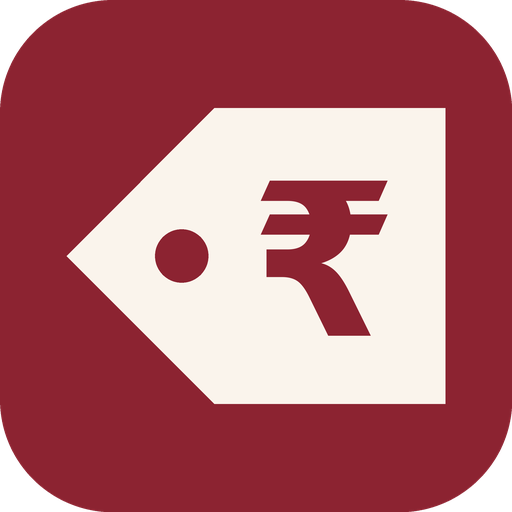
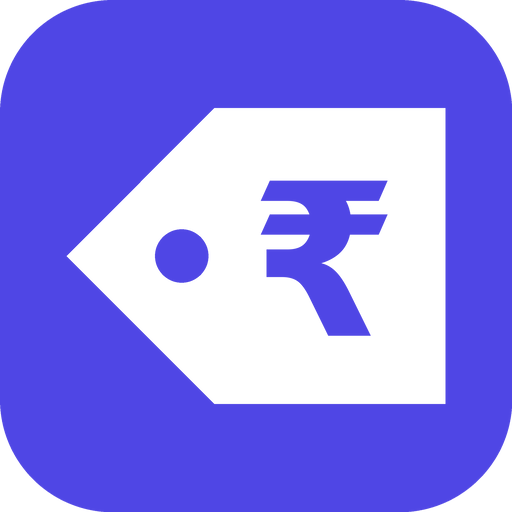
Design pass A: Iris accent, Tools grouped (daily first), muted contrast, 44px touch areas
- One set of colour tokens; accent Iris #4F46E5 (dark #A5A6FF) replaces maroon;
  manifest/theme-color match the background; admin and vendor pages and app
  icons follow; sw rb-shell-6
- --muted #5F636B: >= 5.1:1 on every light background in every theme
- Tools: Every day tiles (Past bills, Credit, Customers, Vendors, Reports),
  then Prices & items, then App
- Invisible hit-slop gives + Bill, card stepper and bill-line -/+/x 44px areas
- tests/designa.test.js; designinstructions.md overrides recorded

Claude-Session: https://claude.ai/code/session_019skoap51iyQ8CtsqPUdKsp

diff --git a/index.html b/index.html
@@ -8,7 +8,7 @@
 if(/iP(hone|ad|od)/.test(navigator.userAgent)||(navigator.platform==="MacIntel"&&navigator.maxTouchPoints>1)){ const m=document.querySelector('meta[name=viewport]'); if(m) m.content+=",maximum-scale=1"; }</script>
 <title>Rate Book</title>
 <meta name="description" content="Shop price list and quick bills">
-<meta name="theme-color" content="#8C2331">
+<meta name="theme-color" content="#F1F2F4">
 <meta name="mobile-web-app-capable" content="yes">
 <meta name="apple-mobile-web-app-capable" content="yes">
 <meta name="apple-mobile-web-app-status-bar-style" content="default">
@@ -23,22 +23,30 @@ if(/iP(hone|ad|od)/.test(navigator.userAgent)||(navigator.platform==="MacIntel"&
 <link rel="stylesheet" href="https://fonts.googleapis.com/css2?family=Plus+Jakarta+Sans:wght@400;500;600;700;800&family=Mukta:wght@400;500;600;700&display=swap" media="print" onload="this.media='all'">
 <style>
 /* Layout: one-column counter app — sticky header + search, scrolling item list, fixed bottom tabs, bottom sheets for detail/edit. */
+/* Colour tokens (one set; see designinstructions.md §4). Accent = Iris (11 Oct 2026; was maroon). */
 :root{
-  --bg:#F5F4F2; --surface:#FFFFFF; --surface-2:#EDEBE8; --fg:#1E1B1A; --muted:#6C6560; --line:#E0DCD7;
-  --accent:#8C2331; --accent-fg:#FFFFFF; --accent-soft:#F5E6E8; --gold:#B87A0B;
-  --good:#2D7A4D; --danger:#B3261E; --shadow:0 1px 2px rgba(30,20,20,.06),0 6px 20px rgba(30,20,20,.08);
-  --f-display:"Baloo 2","Mukta",system-ui,sans-serif;
-  --f-body:"Mukta","Noto Sans Devanagari",system-ui,-apple-system,"Segoe UI",sans-serif;
-  --r:14px;
+  --bg:#F1F2F4; --surface:#FFFFFF; --surface-2:#EEF0F3; --fg:#16171A; --muted:#5F636B; --line:#E3E5E9;
+  --ink:#16171A; --ink-fg:#FFFFFF; --ink-2:#2A2C31;
+  --accent:#4F46E5; --accent-fg:#FFFFFF; --accent-soft:#EEEEFF;
+  --gold:#B87A0B; --good:#2D7A4D; --danger:#B3261E;
+  --shadow:0 1px 2px rgba(16,24,40,.04),0 8px 24px rgba(16,24,40,.07);
+  --shadow-lg:0 12px 40px rgba(16,24,40,.14);
+  --f-display:"Plus Jakarta Sans","Mukta",system-ui,sans-serif;
+  --f-body:"Plus Jakarta Sans","Mukta","Noto Sans Devanagari",system-ui,-apple-system,"Segoe UI",sans-serif;
+  --r:20px;
 }
 @media (prefers-color-scheme: dark){:root:not([data-theme="light"]){
-  --bg:#141312; --surface:#1D1B1A; --surface-2:#2A2725; --fg:#F2EEEA; --muted:#A49C95; --line:#36312E;
-  --accent:#E8848F; --accent-fg:#22090D; --accent-soft:#3B1F24; --gold:#E3B04B;
-  --good:#6FC892; --danger:#F2867E; --shadow:0 1px 2px rgba(0,0,0,.4),0 6px 20px rgba(0,0,0,.35); color-scheme:dark}}
+  --bg:#0E0F11; --surface:#18191C; --surface-2:#222428; --fg:#F3F4F6; --muted:#9CA0A8; --line:#2A2C31;
+  --ink:#F3F4F6; --ink-fg:#111214; --ink-2:#D9DBE0;
+  --accent:#A5A6FF; --accent-fg:#0E0E2E; --accent-soft:#25264D;
+  --gold:#E3B04B; --good:#6FC892; --danger:#F2867E;
+  --shadow:0 1px 2px rgba(0,0,0,.5),0 8px 24px rgba(0,0,0,.4); --shadow-lg:0 12px 40px rgba(0,0,0,.6); color-scheme:dark}}
 :root[data-theme="dark"]{
-  --bg:#141312; --surface:#1D1B1A; --surface-2:#2A2725; --fg:#F2EEEA; --muted:#A49C95; --line:#36312E;
-  --accent:#E8848F; --accent-fg:#22090D; --accent-soft:#3B1F24; --gold:#E3B04B;
-  --good:#6FC892; --danger:#F2867E; --shadow:0 1px 2px rgba(0,0,0,.4),0 6px 20px rgba(0,0,0,.35); color-scheme:dark}
+  --bg:#0E0F11; --surface:#18191C; --surface-2:#222428; --fg:#F3F4F6; --muted:#9CA0A8; --line:#2A2C31;
+  --ink:#F3F4F6; --ink-fg:#111214; --ink-2:#D9DBE0;
+  --accent:#A5A6FF; --accent-fg:#0E0E2E; --accent-soft:#25264D;
+  --gold:#E3B04B; --good:#6FC892; --danger:#F2867E;
+  --shadow:0 1px 2px rgba(0,0,0,.5),0 8px 24px rgba(0,0,0,.4); --shadow-lg:0 12px 40px rgba(0,0,0,.6); color-scheme:dark}
 
 *{box-sizing:border-box}
 [hidden]{display:none!important}
@@ -588,24 +596,6 @@ details.alt summary{cursor:pointer;color:var(--accent);font-weight:600;padding:4
 .btn.listening{background:var(--accent);color:var(--accent-fg);animation:pulse 1.2s infinite}
 
 /* ===================== Design refresh: soft cards, ink pills, floating tab bar ===================== */
-:root{
-  --bg:#F1F2F4; --surface:#FFFFFF; --surface-2:#EEF0F3; --fg:#16171A; --muted:#6E727A; --line:#E3E5E9;
-  --ink:#16171A; --ink-fg:#FFFFFF; --ink-2:#2A2C31;
-  --accent:#9B2335; --accent-fg:#FFFFFF; --accent-soft:#F7E8EA;
-  --shadow:0 1px 2px rgba(16,24,40,.04),0 8px 24px rgba(16,24,40,.07);
-  --shadow-lg:0 12px 40px rgba(16,24,40,.14);
-  --f-display:"Plus Jakarta Sans","Mukta",system-ui,sans-serif;
-  --f-body:"Plus Jakarta Sans","Mukta","Noto Sans Devanagari",system-ui,-apple-system,"Segoe UI",sans-serif;
-  --r:20px;
-}
-@media (prefers-color-scheme: dark){:root:not([data-theme="light"]){
-  --bg:#0E0F11; --surface:#18191C; --surface-2:#222428; --fg:#F3F4F6; --muted:#9CA0A8; --line:#2A2C31;
-  --ink:#F3F4F6; --ink-fg:#111214; --ink-2:#D9DBE0; --accent:#F08A97; --accent-fg:#2A0A10; --accent-soft:#3A1E24;
-  --shadow:0 1px 2px rgba(0,0,0,.5),0 8px 24px rgba(0,0,0,.4); --shadow-lg:0 12px 40px rgba(0,0,0,.6)}}
-:root[data-theme="dark"]{
-  --bg:#0E0F11; --surface:#18191C; --surface-2:#222428; --fg:#F3F4F6; --muted:#9CA0A8; --line:#2A2C31;
-  --ink:#F3F4F6; --ink-fg:#111214; --ink-2:#D9DBE0; --accent:#F08A97; --accent-fg:#2A0A10; --accent-soft:#3A1E24;
-  --shadow:0 1px 2px rgba(0,0,0,.5),0 8px 24px rgba(0,0,0,.4); --shadow-lg:0 12px 40px rgba(0,0,0,.6)}
 body{background:var(--bg);color:var(--fg);letter-spacing:-.005em}
 /* header: greeting + shop name */
 .brand{font:800 21px/1.2 var(--f-display);letter-spacing:-.02em}
@@ -1703,6 +1693,26 @@ details.cg[data-cg="me"] .cg-b>.cfg-sec>div:first-child>h3{display:none}
 #nslide .n-mid b{font-size:14px}
 #nslide .n-x{flex:none;border:0;background:none;color:var(--muted);font-size:18px;padding:4px}
 @media (prefers-reduced-motion:reduce){#nslide{transition:opacity .2s}.nbell.ring svg{animation:none}}
+/* Tools in groups (11 Oct 2026): daily screens first as tiles, then item tools, then app settings */
+.tl-h{font:700 12.5px var(--f-body);letter-spacing:.05em;text-transform:uppercase;color:var(--muted);margin:20px 4px 8px}
+#view-tools .section-title + .tl-h{margin-top:4px}
+@media (max-width:1023px){
+  .tl-daily{grid-template-columns:repeat(2,minmax(0,1fr))}
+  .tl-daily button{flex-direction:column;align-items:flex-start;gap:10px;padding:14px;min-height:124px}
+  .tl-daily button span{font-size:13px;line-height:1.35}
+  .tl-daily > button:last-child:nth-child(odd){grid-column:1/-1;flex-direction:row;align-items:center;min-height:0}
+}
+/* Bigger touch areas, same look (designinstructions §2: aim for 44 px). Invisible hit-slop via ::after. */
+.addbtn,.bill-line .x,.card .mstep button,.bill-line .step button{position:relative}
+.addbtn::after,.bill-line .x::after,.card .mstep button::after,.bill-line .step button::after{content:"";position:absolute}
+.addbtn::after{inset:-8px -6px}
+.bill-line .x::after{inset:-5px}
+.card .mstep{overflow:visible}
+.card .mstep button::after{inset:-8px 0}
+.bill-line .step{overflow:visible}
+.bill-line .step button::after{inset:-4px 0}
+.bill-line .step button:first-child{border-radius:999px 0 0 999px}
+.bill-line .step button:last-child{border-radius:0 999px 999px 0}
 </style>
 </head>
 <body>
@@ -1826,21 +1836,28 @@ details.cg[data-cg="me"] .cg-b>.cfg-sec>div:first-child>h3{display:none}
 
   <section id="view-tools" hidden>
     <h2 class="section-title" data-t="tools">Tools</h2>
+    <h3 class="tl-h" data-t="tlDaily">Every day</h3>
+    <div class="menu-list tl-daily">
+      <button id="t-bills"><svg viewBox="0 0 24 24" fill="none" stroke="currentColor" stroke-width="2" stroke-linecap="round"><path d="M6 2h12v20l-3-2-3 2-3-2-3 2V2z"/><path d="M9 7h6M9 11h6"/><circle cx="17" cy="17" r="4" fill="var(--surface)"/><path d="m20 20 2 2"/></svg><div><b data-t="pastBills">Past bills</b><span data-t="pastBillsD">Find a bill and send it again</span></div></button>
+      <button id="t-dues"><svg viewBox="0 0 24 24" fill="none" stroke="currentColor" stroke-width="2" stroke-linecap="round" stroke-linejoin="round"><path d="M4 4h12a2 2 0 0 1 2 2v14l-3-2-3 2-3-2-3 2-2-1.3V4z"/><path d="M8 9h6M8 13h4"/><circle cx="18" cy="7" r="4" fill="var(--surface)"/><path d="M18 5.2v3.6M16.6 6h2.3a.7.7 0 0 1 0 1.4h-1.8a.7.7 0 0 0 0 1.4h2.3"/></svg><div><b data-t="duesT">Credit (Udhaar)</b><span id="t-dues-sub" data-t="duesD">Who owes money, and record payments</span></div></button>
+      <button id="t-custs"><svg viewBox="0 0 24 24" fill="none" stroke="currentColor" stroke-width="2" stroke-linecap="round" stroke-linejoin="round"><circle cx="9" cy="8" r="3.5"/><path d="M2.5 20a6.5 6.5 0 0 1 13 0"/><path d="M16 4.5a3.5 3.5 0 0 1 0 7M18 20a6 6 0 0 0-2.5-4.9"/></svg><div><b data-t="cuT">Customers</b><span data-t="cuToolD">Everyone who bought, their details and bills</span></div></button>
+      <button id="t-vendors" data-w><svg viewBox="0 0 24 24" fill="none" stroke="currentColor" stroke-width="2" stroke-linecap="round" stroke-linejoin="round"><path d="M3 9l1.5-5h15L21 9"/><path d="M4 9v11h16V9"/><path d="M3 9h18M9 20v-6h6v6"/></svg><div><b data-t="vTitle">Vendors</b><span data-t="vToolD">Bills from suppliers, payments, what you owe</span></div></button>
+      <button id="t-reports" hidden><svg viewBox="0 0 24 24" fill="none" stroke="currentColor" stroke-width="2" stroke-linecap="round" stroke-linejoin="round"><path d="M4 20V10M10 20V4M16 20v-7M22 20H2"/></svg><div><b data-t="repT">Reports</b><span data-t="repD">Sales, top items, GST summary and files for your CA</span></div></button>
+    </div>
+    <h3 class="tl-h" data-t="tlItems">Prices &amp; items</h3>
     <div class="menu-list">
       <button id="t-cmd" data-w><svg viewBox="0 0 24 24" fill="none" stroke="currentColor" stroke-width="2" stroke-linecap="round" stroke-linejoin="round"><path d="m4 20 10-10M15 4v3M13.5 5.5h3M19 9v2M18 10h2M8 4v2M7 5h2"/></svg><div><b data-t="cmdTitle">Change by typing or speaking</b><span data-t="cmdD">"add 51 micron bag 1kg rates 110 and 120"</span></div></button>
       <button id="t-add" data-w><svg viewBox="0 0 24 24" fill="none" stroke="currentColor" stroke-width="2" stroke-linecap="round"><path d="M12 5v14M5 12h14"/></svg><div><b data-t="addItem">Add item</b><span data-t="addItemD">One item with photo</span></div></button>
       <button id="t-bulkadd" data-w><svg viewBox="0 0 24 24" fill="none" stroke="currentColor" stroke-width="2" stroke-linecap="round"><rect x="3" y="4" width="18" height="16" rx="2"/><path d="M3 10h18M9 4v16"/></svg><div><b data-t="bulkAdd">Bulk add</b><span data-t="bulkAddD">Type rows or paste a list from Excel / WhatsApp</span></div></button>
       <button id="t-bulkedit" data-w><svg viewBox="0 0 24 24" fill="none" stroke="currentColor" stroke-width="2" stroke-linecap="round"><path d="M4 20h4L19 9l-4-4L4 16v4z"/><path d="m13 7 4 4"/></svg><div><b data-t="bulkEdit">Bulk edit prices</b><span data-t="bulkEditD">Change many rates at once, or raise by %</span></div></button>
-      <button id="t-unlock"><svg viewBox="0 0 24 24" fill="none" stroke="currentColor" stroke-width="2" stroke-linecap="round"><rect x="4" y="11" width="16" height="10" rx="2"/><path d="M8 11V7a4 4 0 0 1 8 0v4"/></svg><div><b id="t-unlock-t"></b><span id="t-unlock-d"></span></div></button>
-      <button id="t-install" hidden><svg viewBox="0 0 24 24" fill="none" stroke="currentColor" stroke-width="2" stroke-linecap="round"><path d="M12 3v12M7 10l5 5 5-5M5 21h14"/></svg><div><b data-t="installT">Install Rate Book</b><span data-t="installD">Adds an icon to your home screen. Works offline.</span></div></button>
       <button id="t-groups" data-w><svg viewBox="0 0 24 24" fill="none" stroke="currentColor" stroke-width="2" stroke-linecap="round" stroke-linejoin="round"><path d="M3 7l9-4 9 4-9 4-9-4z"/><path d="M3 12l9 4 9-4M3 17l9 4 9-4"/></svg><div><b data-t="grpT">Groups &amp; other names</b><span data-t="grpToolD">Sort items into groups, add names customers use</span></div></button>
       <button id="t-hindi" data-w><svg viewBox="0 0 24 24" fill="none" stroke="currentColor" stroke-width="2" stroke-linecap="round" stroke-linejoin="round"><path d="M4 5h8M8 3v2M5 9c1.5 3 4 5 7 6M11 5c-1 4-3.5 7.5-7 10"/><path d="m13 21 4-9 4 9M14.5 18h5"/></svg><div><b data-t="toHindiT">Convert names to Hindi</b><span data-t="toHindiD">Write every item name in Hindi letters</span></div></button>
-      <button id="t-bills"><svg viewBox="0 0 24 24" fill="none" stroke="currentColor" stroke-width="2" stroke-linecap="round"><path d="M6 2h12v20l-3-2-3 2-3-2-3 2V2z"/><path d="M9 7h6M9 11h6"/><circle cx="17" cy="17" r="4" fill="var(--surface)"/><path d="m20 20 2 2"/></svg><div><b data-t="pastBills">Past bills</b><span data-t="pastBillsD">Find a bill and send it again</span></div></button>
-      <button id="t-reports" hidden><svg viewBox="0 0 24 24" fill="none" stroke="currentColor" stroke-width="2" stroke-linecap="round" stroke-linejoin="round"><path d="M4 20V10M10 20V4M16 20v-7M22 20H2"/></svg><div><b data-t="repT">Reports</b><span data-t="repD">Sales, top items, GST summary and files for your CA</span></div></button>
-      <button id="t-vendors" data-w><svg viewBox="0 0 24 24" fill="none" stroke="currentColor" stroke-width="2" stroke-linecap="round" stroke-linejoin="round"><path d="M3 9l1.5-5h15L21 9"/><path d="M4 9v11h16V9"/><path d="M3 9h18M9 20v-6h6v6"/></svg><div><b data-t="vTitle">Vendors</b><span data-t="vToolD">Bills from suppliers, payments, what you owe</span></div></button>
-      <button id="t-custs"><svg viewBox="0 0 24 24" fill="none" stroke="currentColor" stroke-width="2" stroke-linecap="round" stroke-linejoin="round"><circle cx="9" cy="8" r="3.5"/><path d="M2.5 20a6.5 6.5 0 0 1 13 0"/><path d="M16 4.5a3.5 3.5 0 0 1 0 7M18 20a6 6 0 0 0-2.5-4.9"/></svg><div><b data-t="cuT">Customers</b><span data-t="cuToolD">Everyone who bought, their details and bills</span></div></button>
-      <button id="t-dues"><svg viewBox="0 0 24 24" fill="none" stroke="currentColor" stroke-width="2" stroke-linecap="round" stroke-linejoin="round"><path d="M4 4h12a2 2 0 0 1 2 2v14l-3-2-3 2-3-2-3 2-2-1.3V4z"/><path d="M8 9h6M8 13h4"/><circle cx="18" cy="7" r="4" fill="var(--surface)"/><path d="M18 5.2v3.6M16.6 6h2.3a.7.7 0 0 1 0 1.4h-1.8a.7.7 0 0 0 0 1.4h2.3"/></svg><div><b data-t="duesT">Credit (Udhaar)</b><span id="t-dues-sub" data-t="duesD">Who owes money, and record payments</span></div></button>
+    </div>
+    <h3 class="tl-h" data-t="tlApp">App</h3>
+    <div class="menu-list">
       <button id="t-settings"><svg viewBox="0 0 24 24" fill="none" stroke="currentColor" stroke-width="2" stroke-linecap="round"><path d="M4 6h10M18 6h2M4 12h4M12 12h8M4 18h12M20 18h0"/><circle cx="16" cy="6" r="2"/><circle cx="10" cy="12" r="2"/><circle cx="18" cy="18" r="2"/></svg><div><b data-t="settings">Settings</b><span data-t="settingsD">Shop name, units, rounding, bill footer</span></div></button>
+      <button id="t-unlock"><svg viewBox="0 0 24 24" fill="none" stroke="currentColor" stroke-width="2" stroke-linecap="round"><rect x="4" y="11" width="16" height="10" rx="2"/><path d="M8 11V7a4 4 0 0 1 8 0v4"/></svg><div><b id="t-unlock-t"></b><span id="t-unlock-d"></span></div></button>
+      <button id="t-install" hidden><svg viewBox="0 0 24 24" fill="none" stroke="currentColor" stroke-width="2" stroke-linecap="round"><path d="M12 3v12M7 10l5 5 5-5M5 21h14"/></svg><div><b data-t="installT">Install Rate Book</b><span data-t="installD">Adds an icon to your home screen. Works offline.</span></div></button>
     </div>
   </section>
 </main>
@@ -2186,6 +2203,7 @@ Object.assign(STR.en,{nT:"Notifications",nBell:"Notifications",nEmpty:"No update
 Object.assign(STR.hi,{nT:"सूचनाएँ",nBell:"सूचनाएँ",nEmpty:"अभी कोई सूचना नहीं। नए सप्लायर, सप्लायर के बिल और भुगतान यहाँ दिखेंगे।",nHidden:n=>`${n} आपकी सेटिंग से छिपी`,nToday:"आज",nYest:"कल",nBy:n=>`${n} ने किया`,nNewVendor:v=>`नया सप्लायर: ${v}`,nOpenBal:a=>`पुराना बकाया ${a}`,nCredit:d=>`${d} दिन उधार`,nBill:(a,v)=>`${v} का बिल ${a}`,nBillNo:n=>`बिल ${n}`,nDue:d=>`देय ${d}`,nPay:(a,v)=>`${v} को ${a} दिए`,nAdj:(a,v)=>`${v} को ${a} का माल वापस`,nFor:s=>`बिल ${s} के लिए`,nPaid:n=>n?`बिल ${n} पूरा चुका`:"बिल पूरा चुका",nOpening:"पुराना बकाया",nRmBill:(a,v)=>`बिल ${a} हटाया · ${v}`,nRmPay:(a,v)=>`भुगतान ${a} हटाया · ${v}`,nRmAdj:(a,v)=>`वापसी ${a} हटाई · ${v}`,nCheck:(n,v)=>`${v} का बिल${n?" "+n:""} जाँचें`,nIssues:n=>`हिसाब में ${n} गड़बड़ी`,nMove:n=>`${n} सप्लायर असली मोड में ले जाए गए`,nMore:n=>`${n} नई सूचनाएँ`,nView:"देखें",nSetT:"सप्लायर की सूचनाएँ",nSetD:"आपकी घंटी पर दिखेंगी। किसी को बंद करने के लिए दबाएँ।",nk_vendor:"नया सप्लायर",nk_bill:"बिल",nk_pay:"भुगतान",nk_paid:"बिल पूरा चुका",nk_rm:"हटाया",nk_check:"बिल जाँच में गड़बड़ी",nk_move:"टेस्ट से लाए"});
 Object.assign(STR.en,{cgYou:"You and this phone",cgShopL:"Shop · for everyone",cgOwnerL:"Owner",cgLook:"Display & search",cgPr:"Printer",cgShop:"Shop details",cgBills:"Bill numbers",cgItems:"Items & units",cgPpl:"People & security",cgPplD:"PINs, signed-in phones, shop code",cgBkD:"Copies in Google Drive, restore",cgSpeedD:"How fast the sheet answers",cgTest:"Test mode",cgReal:"Real billing",cgSBot:"search at bottom",cgSTop:"search at top",cgAuto:"prints after Done",cgNoGst:"no GSTIN",cgNext:n=>`Next bill ${n}`,cgNextG:n=>`GST ${n}`,cgUnits:n=>n===1?"1 unit":`${n} units`});
 Object.assign(STR.hi,{cgYou:"आप और यह फ़ोन",cgShopL:"दुकान · सबके लिए",cgOwnerL:"मालिक",cgLook:"दिखावट और सर्च",cgPr:"प्रिंटर",cgShop:"दुकान की जानकारी",cgBills:"बिल नंबर",cgItems:"आइटम और यूनिट",cgPpl:"लोग और सुरक्षा",cgPplD:"PIN, साइन-इन फ़ोन, दुकान का कोड",cgBkD:"Google Drive में कॉपी, वापस लाना",cgSpeedD:"शीट कितनी जल्दी जवाब देती है",cgTest:"टेस्ट मोड",cgReal:"असली बिलिंग",cgSBot:"सर्च नीचे",cgSTop:"सर्च ऊपर",cgAuto:"Done के बाद प्रिंट",cgNoGst:"GSTIN नहीं",cgNext:n=>`अगला बिल ${n}`,cgNextG:n=>`GST ${n}`,cgUnits:n=>`${n} यूनिट`});
+Object.assign(STR.en,{tlDaily:"Every day",tlItems:"Prices & items",tlApp:"App"}); Object.assign(STR.hi,{tlDaily:"रोज़ के काम",tlItems:"दाम और सामान",tlApp:"ऐप"});
 Object.assign(STR.en,{heldNoItems:"No items yet",totFind:"Find an item to add"});
 Object.assign(STR.hi,{heldNoItems:"अभी कोई सामान नहीं",totFind:"जोड़ने के लिए सामान खोजें"});
 Object.assign(STR.hi,{helloName:n=>`नमस्ते, ${n}`,hello:"नमस्ते",fAll:"सब",fInBill:"बिल में",fRecent:"इस हफ़्ते बदले",fPhoto:"फ़ोटो वाले"});
@@ -2270,7 +2288,7 @@ setFz(fzNow());
 document.addEventListener("DOMContentLoaded",()=>{ if(!document.body.dataset.tab) document.body.dataset.tab="items"; });
 if(document.body) document.body.dataset.tab="items";
 /* Theme and appearance, chosen per phone. [key, light primary, light second, dark primary, status-bar colour] */
-const PALETTES=[["ink","#16171A","#9B2335","#F3F4F6","#F1F2F4"],["maroon","#8C2331","#F6E6E8","#EC8E99","#8C2331"],["forest","#1F6B4A","#E3F1EA","#5CC594","#1F6B4A"],["indigo","#3443A8","#E7EAF9","#9AABFF","#3443A8"],["saffron","#A14B07","#FBEEDC","#F5A524","#A14B07"]];
+const PALETTES=[["ink","#16171A","#4F46E5","#F3F4F6","#F1F2F4"],["maroon","#8C2331","#F6E6E8","#EC8E99","#8C2331"],["forest","#1F6B4A","#E3F1EA","#5CC594","#1F6B4A"],["indigo","#3443A8","#E7EAF9","#9AABFF","#3443A8"],["saffron","#A14B07","#FBEEDC","#F5A524","#A14B07"]];
 function palNow(){ const v=ls.get("rb_palette","ink"); return PALETTES.some(p=>p[0]===v)?v:"ink"; }
 function appearNow(){ const v=ls.get("rb_appear","auto"); return ["auto","light","dark"].includes(v)?v:"auto"; }
 function applyTheme(){

diff --git a/tests/designa.test.js b/tests/designa.test.js
@@ -1,0 +1,44 @@
+/* Design quick wins (11 Oct 2026): Tools grouped with daily screens first, grey text ≥ 4.5:1 in every theme,
+   44 px touch areas on small controls, launch colours match the app, Iris accent. Run: node tests/designa.test.js */
+const fs = require('fs'), path = require('path');
+const { appHtml, launch, ok, done } = require('./browser');
+const html = appHtml('S,appUnlock,addToBill,setTab');
+const items = ['PP Bag 12x18', 'Paper Cup 150ml', 'Sugar loose'].map((n, i) => ({ id: 'i' + i, name: n, unit: i === 2 ? 'kg' : 'pc', buy: 10, sell: 14 + i }));
+const lum = h => { const c = h.match(/\d+/g).slice(0, 3).map(v => { v /= 255; return v <= .03928 ? v / 12.92 : ((v + .055) / 1.055) ** 2.4; }); return .2126 * c[0] + .7152 * c[1] + .0722 * c[2]; };
+const ratio = (a, b) => { const x = lum(a), y = lum(b); return (Math.max(x, y) + .05) / (Math.min(x, y) + .05); };
+(async () => {
+  const man = JSON.parse(fs.readFileSync(path.join(__dirname, '..', 'manifest.webmanifest'), 'utf8'));
+  const b = await launch();
+  const ctx = await b.newContext({ viewport: { width: 390, height: 844 }, isMobile: true, hasTouch: true }); const p = await ctx.newPage(); p.on('pageerror', e => console.log('PAGEERR', e.message));
+  await ctx.route('https://rb.test/**', r => r.fulfill({ body: html, contentType: 'text/html' }));
+  await ctx.route('https://script.google.com/**', r => r.fulfill({ contentType: 'application/json', body: JSON.stringify({ ok: true, shop: 'main', rev: '1', items, config: { shopName: 'G', mode: 'live', nextBill: 5 }, sv: 43, me: { name: 'Mayank', role: 'owner', personal: true, prefs: {} } }) }));
+  await p.addInitScript(() => localStorage.setItem('rb_auth', JSON.stringify({ tok: 't1', by: 'Mayank', role: 'owner', personal: true, pinH: 'x', pinS: 'AAAA' })));
+  await p.goto('https://rb.test/'); await p.waitForTimeout(1200); await p.evaluate(() => T.appUnlock()); await p.waitForTimeout(300);
+  const tok = () => p.evaluate(() => { const c = getComputedStyle(document.documentElement); return { bg: c.getPropertyValue('--bg').trim(), s2: c.getPropertyValue('--surface-2').trim(), muted: c.getPropertyValue('--muted').trim(), accent: c.getPropertyValue('--accent').trim() }; });
+  const hex = h => { h = h.replace('#', ''); return 'rgb(' + [0, 2, 4].map(i => parseInt(h.slice(i, i + 2), 16)).join(',') + ')'; };
+  const t0 = await tok();
+  ok(t0.accent.toUpperCase() === '#4F46E5', 'accent is Iris #4F46E5 (was maroon)');
+  ok(man.background_color.toUpperCase() === t0.bg.toUpperCase() && man.theme_color.toUpperCase() === t0.bg.toUpperCase(), 'manifest launch colours match the app background (no colour flash at start)');
+  for (const pal of ['ink', 'maroon', 'forest', 'indigo', 'saffron']) {
+    await p.evaluate(x => { if (x === 'ink') document.documentElement.removeAttribute('data-palette'); else document.documentElement.setAttribute('data-palette', x); }, pal);
+    const t = await tok(), r = Math.min(ratio(hex(t.muted), hex(t.bg)), ratio(hex(t.muted), hex(t.s2)), ratio(hex(t.muted), 'rgb(255,255,255)'));
+    ok(r >= 4.5, `${pal}: grey text ${r.toFixed(2)}:1 on every light background (≥ 4.5)`);
+  }
+  await p.evaluate(() => document.documentElement.removeAttribute('data-palette'));
+  await p.evaluate(() => T.setTab('tools')); await p.waitForTimeout(300);
+  const order = await p.$$eval('#view-tools .menu-list', ls => ls.map(l => [...l.querySelectorAll('button')].map(b => b.id)));
+  ok(order[0].slice(0, 4).join() === 't-bills,t-dues,t-custs,t-vendors' && order[0].includes('t-reports'), 'Tools: Past bills, Credit, Customers, Vendors, Reports come first');
+  ok(order[1].includes('t-add') && order[2][0] === 't-settings', 'Tools: item tools next, Settings / Lock under App');
+  const cols = await p.$$eval('.tl-daily > button:not([hidden])', bs => new Set(bs.map(b => Math.round(b.getBoundingClientRect().left))).size);
+  ok(cols === 2, 'Tools: daily screens are 2-column tiles on a phone');
+  const hit = async (sel, label) => { const r = await p.evaluate(s => { const e = document.querySelector(s); const b = e.getBoundingClientRect(), cx = b.left + b.width / 2, cy = b.top + b.height / 2;
+      const at = (x, y) => { const h = document.elementFromPoint(x, y); return !!h && (h === e || e.contains(h)); };
+      let up = 0; while (up < 30 && at(cx, cy - b.height / 2 - up - 1)) up++; let dn = 0; while (dn < 30 && at(cx, cy + b.height / 2 + dn + 1)) dn++;
+      return Math.round(b.height + up + dn); }, sel); ok(r >= 42, `${label}: touch area ${r} px tall (≥ 42)`); };
+  await p.evaluate(() => T.setTab('items')); await p.waitForTimeout(300);
+  await hit('#list [data-add]', '"+ Bill" on Prices');
+  await p.evaluate(() => { T.addToBill('i0', 2); T.addToBill('i1', 1); T.setTab('bill'); }); await p.waitForTimeout(400);
+  await hit('.bill-line [data-rm]', 'bill line ×');
+  await hit('.bill-line [data-inc]', 'bill line +');
+  await ctx.close(); await b.close(); done();
+})();

diff --git a/admin.html b/admin.html
@@ -11,11 +11,11 @@
 <link rel="stylesheet" href="https://fonts.googleapis.com/css2?family=Plus+Jakarta+Sans:wght@400;500;600;700;800&family=JetBrains+Mono:wght@500&display=swap" media="print" onload="this.media='all'">
 <style>
 /* Square corners by choice (Mayank prefers pointed). Colours: ink for primary, maroon accent from the app, green/amber/red for status. */
-:root{--bg:#F4F5F7;--surface:#fff;--surface-2:#F0F1F4;--surface-3:#E7E9EE;--fg:#111317;--muted:#6B7180;--line:#E2E4E9;--line-2:#D3D6DD;--ink:#111317;--ink-fg:#fff;--accent:#8C2331;
+:root{--bg:#F4F5F7;--surface:#fff;--surface-2:#F0F1F4;--surface-3:#E7E9EE;--fg:#111317;--muted:#6B7180;--line:#E2E4E9;--line-2:#D3D6DD;--ink:#111317;--ink-fg:#fff;--accent:#4F46E5;
   --good:#16794A;--good-bg:#E5F4EC;--warn:#9A5B05;--warn-bg:#FBF0DC;--bad:#B3261E;--bad-bg:#FBE7E5;--shadow:0 1px 2px rgba(17,19,23,.05),0 8px 24px -12px rgba(17,19,23,.12);color-scheme:light}
-@media (prefers-color-scheme:dark){:root:not([data-theme="light"]){--bg:#0D0E10;--surface:#16171A;--surface-2:#1D1F23;--surface-3:#272A2F;--fg:#F2F3F5;--muted:#9A9FAA;--line:#2A2D33;--line-2:#363940;--ink:#F2F3F5;--ink-fg:#111317;--accent:#E8848F;
+@media (prefers-color-scheme:dark){:root:not([data-theme="light"]){--bg:#0D0E10;--surface:#16171A;--surface-2:#1D1F23;--surface-3:#272A2F;--fg:#F2F3F5;--muted:#9A9FAA;--line:#2A2D33;--line-2:#363940;--ink:#F2F3F5;--ink-fg:#111317;--accent:#A5A6FF;
   --good:#5BC28A;--good-bg:#15291F;--warn:#E3A44A;--warn-bg:#2B2213;--bad:#F08A80;--bad-bg:#301A18;--shadow:0 1px 2px rgba(0,0,0,.4),0 8px 24px -12px rgba(0,0,0,.6);color-scheme:dark}}
-:root[data-theme="dark"]{--bg:#0D0E10;--surface:#16171A;--surface-2:#1D1F23;--surface-3:#272A2F;--fg:#F2F3F5;--muted:#9A9FAA;--line:#2A2D33;--line-2:#363940;--ink:#F2F3F5;--ink-fg:#111317;--accent:#E8848F;
+:root[data-theme="dark"]{--bg:#0D0E10;--surface:#16171A;--surface-2:#1D1F23;--surface-3:#272A2F;--fg:#F2F3F5;--muted:#9A9FAA;--line:#2A2D33;--line-2:#363940;--ink:#F2F3F5;--ink-fg:#111317;--accent:#A5A6FF;
   --good:#5BC28A;--good-bg:#15291F;--warn:#E3A44A;--warn-bg:#2B2213;--bad:#F08A80;--bad-bg:#301A18;--shadow:0 1px 2px rgba(0,0,0,.4),0 8px 24px -12px rgba(0,0,0,.6);color-scheme:dark}
 *{box-sizing:border-box}
 html{-webkit-text-size-adjust:100%}

diff --git a/vendor.html b/vendor.html
@@ -12,9 +12,9 @@
 <link rel="stylesheet" href="https://fonts.googleapis.com/css2?family=Plus+Jakarta+Sans:wght@400;600;700;800&family=Mukta:wght@400;600;700;800&display=swap">
 <style>
 /* Read-only account page for one vendor, opened from the private link the shop shares (vendor.html?t=…). */
-:root{--bg:#f4f5f7;--surface:#fff;--surface-2:#eef0f3;--fg:#141518;--muted:#62666e;--line:#e3e5e9;--ink:#16171a;--ink-fg:#fff;--accent:#8a1c2b;--ok:#17703f;--f:"Plus Jakarta Sans","Mukta",system-ui,sans-serif}
+:root{--bg:#f4f5f7;--surface:#fff;--surface-2:#eef0f3;--fg:#141518;--muted:#62666e;--line:#e3e5e9;--ink:#16171a;--ink-fg:#fff;--accent:#4F46E5;--ok:#17703f;--f:"Plus Jakarta Sans","Mukta",system-ui,sans-serif}
 :lang(hi){--f:"Mukta","Plus Jakarta Sans",system-ui,sans-serif}
-@media (prefers-color-scheme:dark){:root{--bg:#0f1012;--surface:#18191c;--surface-2:#222328;--fg:#eceef2;--muted:#9a9ea7;--line:#2b2d33;--ink:#eceef2;--ink-fg:#111;--accent:#ff8a96;--ok:#7fe0a8}}
+@media (prefers-color-scheme:dark){:root{--bg:#0f1012;--surface:#18191c;--surface-2:#222328;--fg:#eceef2;--muted:#9a9ea7;--line:#2b2d33;--ink:#eceef2;--ink-fg:#111;--accent:#A5A6FF;--ok:#7fe0a8}}
 *{box-sizing:border-box}
 body{margin:0;background:var(--bg);color:var(--fg);font:15px/1.45 var(--f);-webkit-text-size-adjust:100%}
 .wrap{max-width:720px;margin:0 auto;padding:16px 16px calc(32px + env(safe-area-inset-bottom))}

diff --git a/sw.js b/sw.js
@@ -1,5 +1,5 @@
 /* Rate Book service worker: keeps the app opening offline. Prices themselves are cached by the page. */
-const VERSION = 'rb-shell-5';
+const VERSION = 'rb-shell-6';
 const SHELL = ['./', './index.html', './manifest.webmanifest', './icon-192.png', './icon-512.png', './icon-maskable-512.png', './apple-touch-icon.png', './favicon.png'];
 
 self.addEventListener('install', e => {

diff --git a/designinstructions.md b/designinstructions.md
@@ -8,7 +8,7 @@ Researched October 2026 from Apple HIG (iOS 26 / Liquid Glass), Material 3 and M
 ## 0. How to use this file
 
 1. **Before any UI work, read §1 (principles) and the sections for what you're touching.** Run the §12 checklist before calling the work done.
-2. **Use the tokens in the code**: `--bg`, `--surface`, `--surface-2`, `--fg`, `--muted`, `--line`, `--ink`/`--ink-fg`, `--accent`/`--accent-soft`, `--good`, `--danger`, `--gold`, `--r`, `--shadow`, `--f-display`, `--f-body`. Never write a new hex value in a component. If a token is missing, add it to `:root`, to both dark blocks and to every palette (`PALETTES` + `:root[data-palette=…]`).
+2. **Use the tokens in the code** (all colour tokens live in one `:root` block at the top of the `<style>`, plus its two dark blocks): `--bg`, `--surface`, `--surface-2`, `--fg`, `--muted`, `--line`, `--ink`/`--ink-fg`, `--accent`/`--accent-soft`, `--good`, `--danger`, `--gold`, `--r`, `--shadow`, `--f-display`, `--f-body`. Never write a new hex value in a component. If a token is missing, add it to `:root`, to both dark blocks and to every palette (`PALETTES` + `:root[data-palette=…]`).
 3. **This file wins over taste.** When the user asks for something that goes against it, do what they ask, then add an "Overrides" note at the bottom so it isn't undone later.
 4. **Keep it current.** When a design decision is made in a conversation (for example "no extra taps to see things on small screens"), add it to §1 or the relevant section in the same pull request.
 
@@ -133,7 +133,7 @@ Researched October 2026 from Apple HIG (iOS 26 / Liquid Glass), Material 3 and M
 ## 4. Colour
 
 **Palette rules.**
-- The base is warm off-white `--bg` (#F5F4F2) with white `--surface`, near-black **ink** primary buttons (`--ink` #16171A) and one accent (maroon `--accent` #8C2331). This matches the 2025–26 direction (Linear, Vercel, Revolut). Keep it.
+- The base is cool off-white `--bg` (#F1F2F4) with white `--surface`, near-black **ink** primary buttons (`--ink` #16171A) and one accent, **Iris** (`--accent` #4F46E5; dark mode #A5A6FF; soft #EEEEFF / #25264D). This matches the 2025–26 direction (Linear, Vercel, Revolut). Iris was chosen over teal (too close to the green for "Paid" and the WhatsApp button) and ocean blue (generic). Keep it.
 - New palettes should be built in **OKLCH**:
   - fix the hue;
   - step lightness over about 11 shades (98, 95, 90, 82, 72, 62, 54, 46, 38, 30, 22%);
@@ -156,7 +156,7 @@ Researched October 2026 from Apple HIG (iOS 26 / Liquid Glass), Material 3 and M
 - Show elevation with **lighter** surfaces (2–4% L per level), not shadows.
 - Text is off-white (#F2EEEA, L 93–96%), not #fff.
 - Borders: white at 8–12%, or `--line`.
-- Accents get lighter and slightly less saturated (`--accent` #F08A97 in dark).
+- Accents get lighter and slightly less saturated (`--accent` #A5A6FF in dark).
 - Coloured themes switch the tab bar and toasts to neutral grey in dark mode (`--nav-*`), with only the active item in colour.
 
 **Contrast.**
@@ -426,7 +426,7 @@ Lottie and Rive add hundreds of KB. In this no-build PWA use CSS, SVG and the We
 - [ ] Delay every loader by about 300 ms and keep it up at least 500 ms.
 - [ ] Check APCA contrast for `--muted` on `--surface-2` in dark mode, in every palette.
 - [ ] Devanagari line height: check sub-lines (`.bl-sub`, card `nameHi`) are at least 1.4, and 1.5 for paragraphs.
-- [ ] Give small controls (bill-line ×, stepper ±, "+ Bill" on Prices, 49 × 28 px) a 44 px hit area through hit-slop.
+- [x] Small controls (bill-line ×, stepper ±, "+ Bill" on Prices, card stepper) have a 44 px hit area through `::after` hit-slop (11 Oct 2026).
 - [ ] Icons: a separate maskable PNG set, an SVG favicon with dark mode, `theme-color` metas per colour scheme, and a single-colour mark.
 - [ ] Permission pre-prompts before notifications, microphone and camera.
 - [ ] Optionally, a first-run language tile choice on the sign-in screen.
@@ -470,4 +470,5 @@ Lottie and Rive add hundreds of KB. In this no-build PWA use CSS, SVG and the We
 
 ## Overrides (user decisions that differ from the above)
 
-- *(none yet)*
+- **Brand accent is Iris, not maroon** (Mayank, 11 Oct 2026: "maroon does not look that good, there should be a fresh colour"). Maroon stays only as an optional theme in Settings.
+- **Grey text `--muted` is #5F636B** (was #6E727A, which measured 4.2:1 on grey backgrounds).

diff --git a/CLAUDE.md b/CLAUDE.md
@@ -640,6 +640,23 @@ Phones only (under 1024 px); the laptop layout is unchanged. Asked for because t
   `billsearch` covers the in-bar search icon and the empty-bill button.
 - Tests: `tests/bottomsearch.test.js`, `tests/searchscroll.test.js`; `tests/paidby.test.js` updated for the folded cash row.
 
+## Design pass A: Iris colour, Tools in groups, contrast, touch areas (11 Oct 2026, `index.html` only)
+
+- **New accent, Iris** (`--accent` #4F46E5, dark #A5A6FF; soft #EEEEFF / #25264D), replacing maroon, which Mayank found dull. Teal and ocean blue were also tried: teal is too close to the green used for "Paid" and to WhatsApp, and ocean blue looks generic. Maroon stays as an optional theme.
+  - The two sets of colour tokens (the original warm set, overridden by the "Design refresh" set) are merged into **one** `:root` block plus its two dark blocks at the top of the `<style>`.
+  - The manifest's `theme_color` / `background_color` and the `theme-color` meta now equal `--bg` (#F1F2F4), so there's no maroon flash at launch.
+  - `admin.html` and `vendor.html` use Iris too.
+  - The icons are recoloured: a white ₹ tag on Iris. The full icon set is part C.
+  - `sw.js` → `rb-shell-6`.
+- **Grey text** `--muted` #5F636B (was #6E727A, 4.2–4.3:1 on grey backgrounds). It's now ≥ 5.1:1 on every light background in every theme.
+- **Tools in groups:**
+  - **Every day** (`.tl-daily`, 2-column tiles on phones; an odd last tile spans the row): Past bills · Credit · Customers · Vendors · Reports.
+  - **Prices & items:** typing/speaking changes, Add, Bulk add, Bulk edit, Groups, Hindi names.
+  - **App:** Settings, Lock now, Install.
+  - Headings are `.tl-h` (`tlDaily` / `tlItems` / `tlApp`). Element ids and handlers are unchanged.
+- **44 px touch areas without changing the look:** an `::after` hit-slop on "+ Bill" (`.addbtn`), the Prices card stepper (`.card .mstep button`; `.mstep` is now `overflow:visible`), and the bill line − / + and ×. The bill stepper's end buttons carry their own rounded corners now that `.bill-line .step` doesn't clip.
+- Test: `tests/designa.test.js`.
+
 ## Cache check (10 Oct 2026, `SCRIPT_VERSION` 41 / `NEED_SV` unchanged)
 
 Every cache layer was reviewed (app page in `sw.js`, the script's reply cache, and the phone's copies of prices, Past bills, customers, Credit, vendors, Reports, photos). Three fixes:
@@ -716,7 +733,7 @@ Every cache layer was reviewed (app page in `sw.js`, the script's reply cache, a
 
 ## How to update
 
-- **App change:** edit `index.html` (or other static files) and commit to `main`. GitHub Pages republishes in about a minute. Phones load the new `index.html` on next open (the service worker fetches pages network-first). If `sw.js`, the icons or the manifest change, bump `VERSION` in `sw.js` (currently `rb-shell-5`). Run `node tests/run-all.js` before merging (GitHub runs it too).
+- **App change:** edit `index.html` (or other static files) and commit to `main`. GitHub Pages republishes in about a minute. Phones load the new `index.html` on next open (the service worker fetches pages network-first). If `sw.js`, the icons or the manifest change, bump `VERSION` in `sw.js` (currently `rb-shell-6`). Run `node tests/run-all.js` before merging (GitHub runs it too).
 - **Backend change:** with the admin dashboard, **Update script** (your shop first, then Update all shops). By hand: paste the new `Code.gs`, then **Manage deployments → Edit → New version**. Never use "New deployment": it changes the URL and breaks every installed app until `API_URL` is updated.
 - **Prices and settings:** changed inside the app (needs PIN) or directly in the sheet's `Items` tab. Phones notice within about 30 seconds.
 
